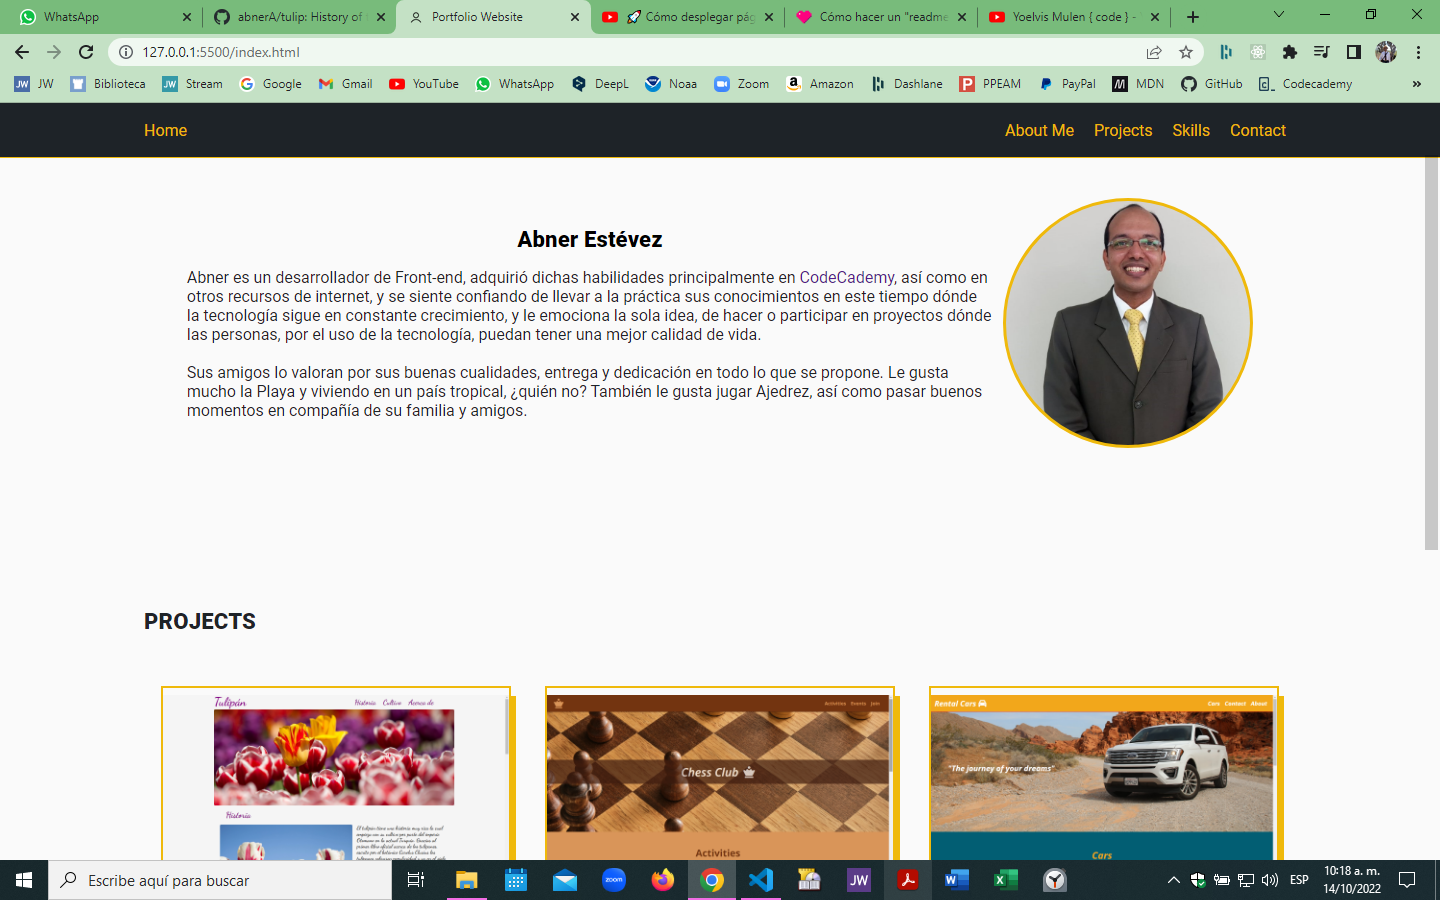
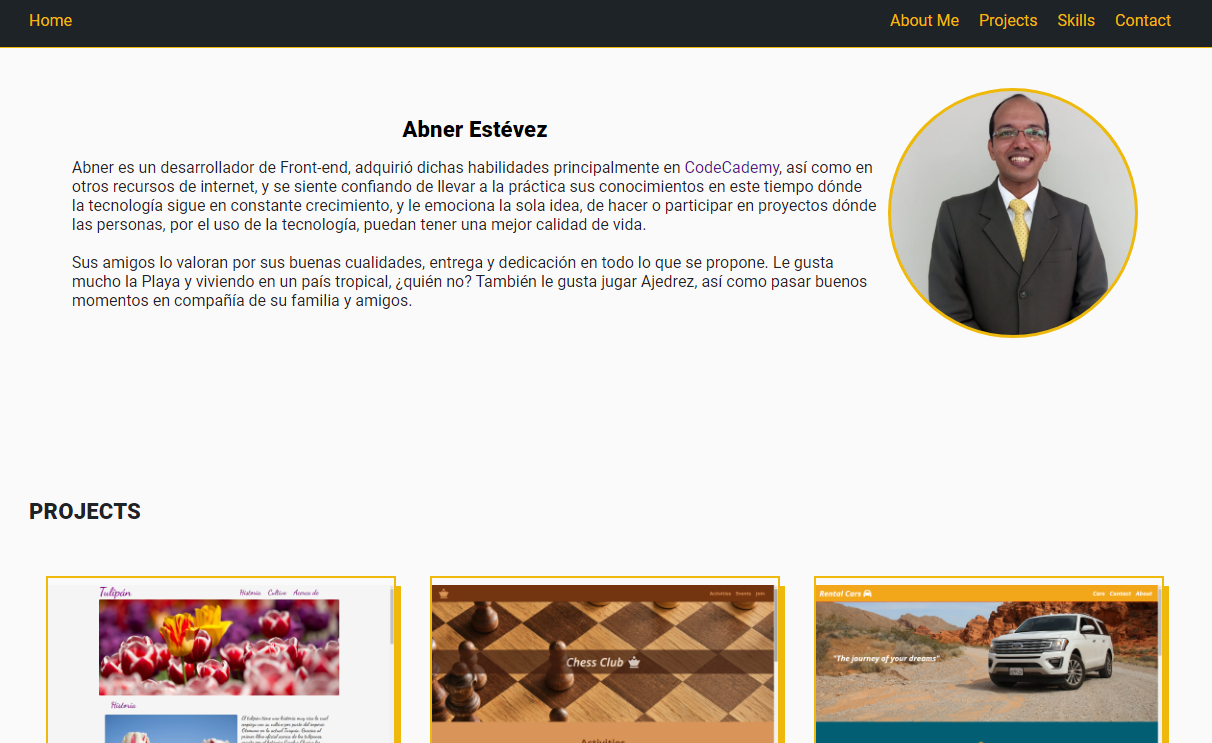
Eliminación de ventana modal

diff --git a/style.css b/style.css
@@ -60,10 +60,10 @@ a {
 }
 
 .header .menu {
-    display: flex;
-    flex-direction: row;
-    justify-content: flex-end;
-    align-items: center;
+  display: flex;
+  flex-direction: row;
+  justify-content: flex-end;
+  align-items: center;
   width: 80%;
   margin-right: 10%;
 }
@@ -91,11 +91,9 @@ a {
   font-size: 0.9rem;
 }
 
-
-
 .header .menu ul li {
-    padding: 5px 0px;
-    list-style: none;
+  padding: 5px 0px;
+  list-style: none;
 }
 
 .menu .bars {
@@ -106,40 +104,38 @@ a {
 /* Main */
 
 .main {
-margin: 70px 10% 0 10%;
+  margin: 70px 10% 0 10%;
 }
 
 @media only screen and (max-width: 500px) {
+  /* drop-down */
 
-/* drop-down */
+  .main1 {
+    margin: 140px 10% 0 10%;
+  }
 
-.main1 {
-  margin: 140px 10% 0 10%;
-}
+  .header1 {
+    height: auto;
+  }
 
-.header1 {
-  height: auto;
-}
+  .header .menu ul {
+    display: none;
+  }
 
-.header .menu ul {
-    display: none; 
-}
-
-.menu .bars {
+  .menu .bars {
     display: block;
     color: var(--title);
     font-size: 1.5rem;
-}
+  }
 
-.header .menu .drop-down {
-  width: 100%;
-  display: flex; 
-  height: auto;
-  flex-direction: column;
-  justify-content: center;
-  align-items: center;
-}
-
+  .header .menu .drop-down {
+    width: 100%;
+    display: flex;
+    height: auto;
+    flex-direction: column;
+    justify-content: center;
+    align-items: center;
+  }
 }
 
 /* Container Form */
@@ -246,7 +242,6 @@ button:active {
 
 .about .biografia p {
   color: var(--text);
-
 }
 
 .about .bg-img {
@@ -258,54 +253,6 @@ button:active {
   border: solid 3px var(--title);
   width: 250px;
   height: 250px;
-  cursor: pointer;
-}
-
-/* Modal */
-
-.modalContainer {
-    display: none;
-    background-color: var(--second);
-    position: fixed;
-    width: 85%;
-    max-width: 750px;
-    height: auto;
-    top: 50%;
-    left: 50%;
-    margin: 20px auto;
-    transform: translate(-50%, -50%);
-    border: solid 2px var(--title);
-    z-index: 2;
-}
-
-.modalContainer .close {
-    background-color: black;
-    color: white;
-    font-size: 1.2rem;
-    display: flex;
-    position: absolute;
-    border: solid 3px var(--second);
-    border-radius: 50%;
-    top: -18px;
-    right: -18px;
-    width: 36px;
-    height: 36px;
-    cursor: pointer;
-    justify-content: center;
-    align-items: center;
-    align-content: center;
-}
-
-.modal-content {
-    padding: 5px; 
-    max-width: auto;
-    height: auto;
-}
-
-.modal-content img {
-    width: 100%;
-    height: 100%;
-    border-radius: 5px;
 }
 
 /* Projects */
@@ -433,10 +380,9 @@ button:active {
 }
 
 @media only screen and (max-width: 1200px) {
-
-    .about {
-        height: auto;
-    }
+  .about {
+    height: auto;
+  }
 
   .about .biografia {
     width: 100%;
@@ -453,7 +399,6 @@ button:active {
 }
 
 @media only screen and (max-width: 400px) {
-
   .about .biografia {
     width: 100%;
     height: auto;
@@ -473,16 +418,14 @@ button:active {
     margin: 15px;
   }
 
-.skills div {
+  .skills div {
     height: auto;
-}
-
+  }
 
   .skills div i {
     font-size: 2rem;
     padding: 15px;
   }
-
 }
 
 @media only screen and (max-width: 280px) {

diff --git a/index.html b/index.html
@@ -19,7 +19,6 @@
       href="https://fonts.googleapis.com/css2?family=Noto+Sans:ital,wght@0,100;0,700;1,100;1,600&family=Roboto:wght@100;400;900&display=swap"
       rel="stylesheet"
     />
-    <script src="./script.js" defer></script>
     <script src="./menuBars.js" defer></script>
     <title>Portfolio Website</title>
   </head>
@@ -65,13 +64,7 @@
             amigos.
           </p>
         </div>
-        <div class="bg-img" id="open-modal"></div>
-        <div class="modalContainer" id="modal">
-          <a title="close" class="close" id="close-modal">X</a>
-          <div class="modal-content">
-            <img src="./img/Abner Estévez.jfif" alt="Abner Estévez" />
-          </div>
-        </div>
+        <div class="bg-img"></div>
       </section>
       <section id="projects" class="projects">
         <div class="container">

diff --git a/README.md b/README.md
@@ -19,7 +19,7 @@ Este ha sido un camino desafiante, pero al mismo tiempo emocionante y ha sido gr
 recursos de internet por los cuales estoy muy agradecido:
 
 1. [CodeCademy](https://www.codecademy.com/)
-2. [Udemy](https://www.udemy.com/) con FalcoMasters
+2. [Udemy](https://www.udemy.com/) con FalconMasters
 3. [YouTube](https://www.youtube.com/c/YoelvisM) Yoelvis Mulen
 
 Gracias!! 👏
